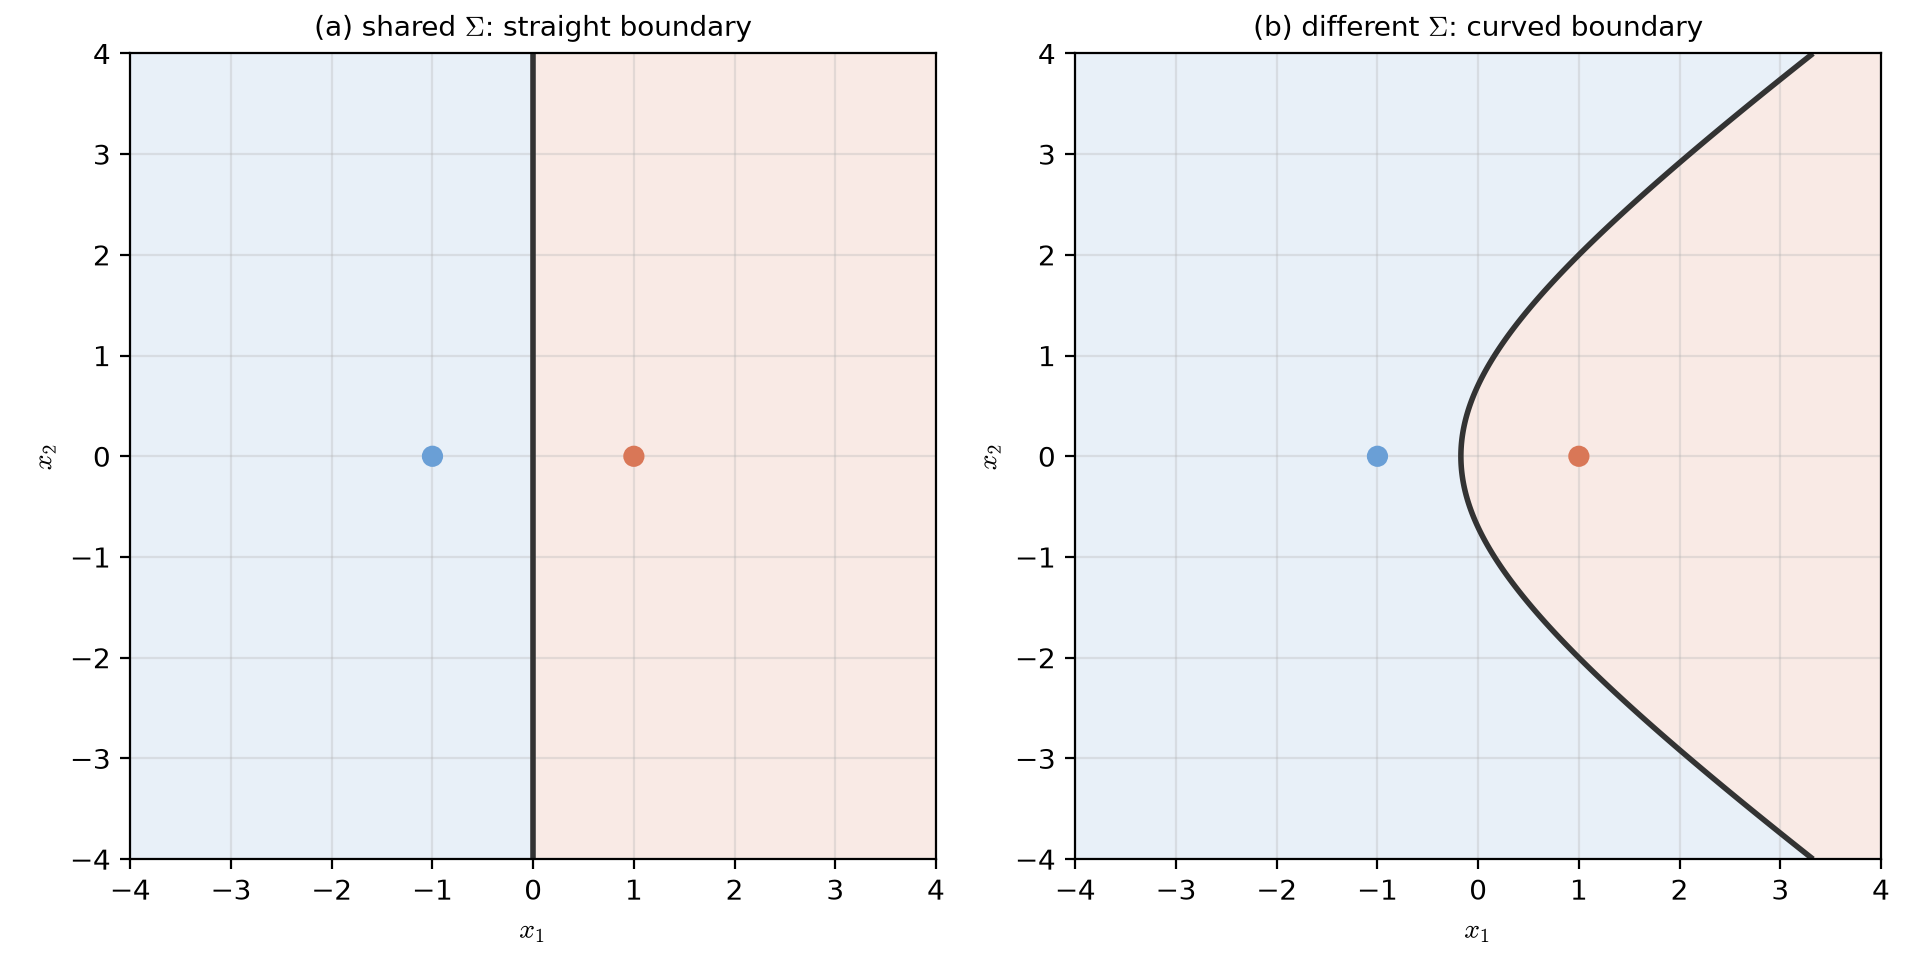
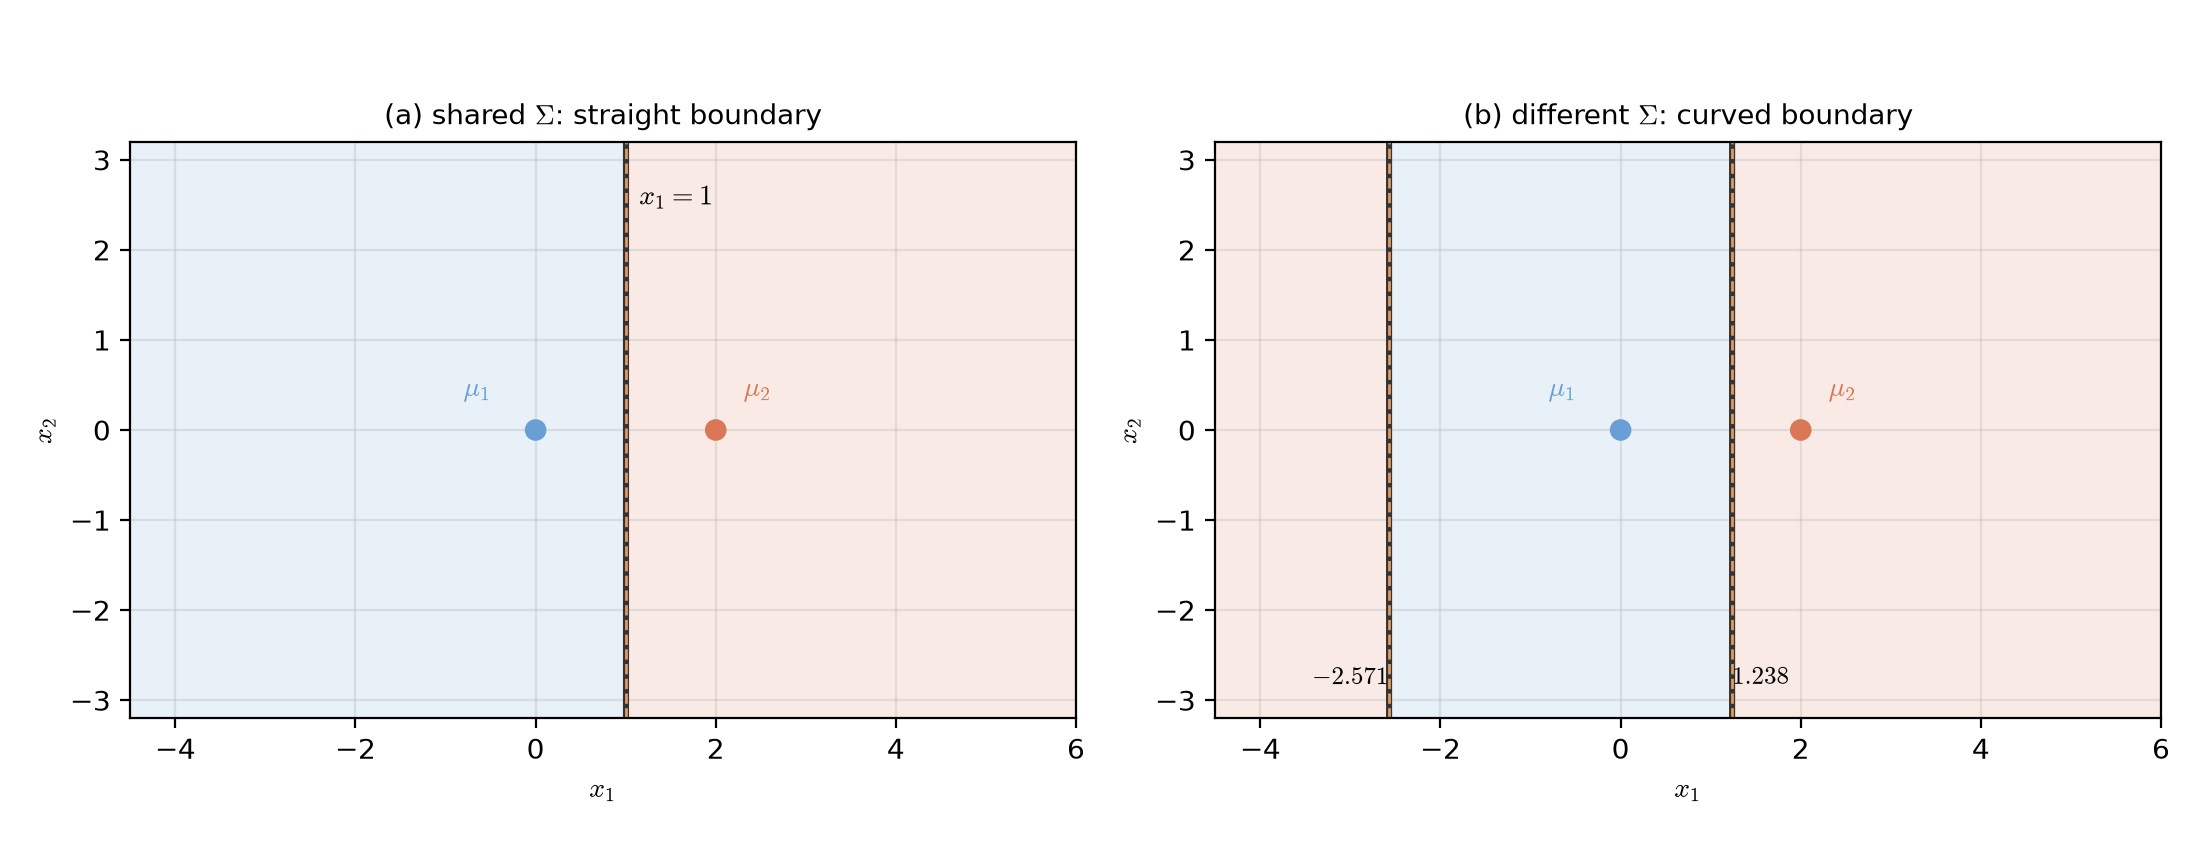
fix(lec02): shared-covariance 改用講義數字(§5.3 的均值與變異數),圖說同步

diff --git a/assets/figures/src/lec02-shared-covariance.py b/assets/figures/src/lec02-shared-covariance.py
@@ -1,16 +1,19 @@
-"""Figure code: lec02-shared-covariance. Preview: a shared covariance makes the boundary a line.
+"""Figure code: lec02-shared-covariance. Preview: a shared covariance makes the boundary a straight line.
 
-Illustrative two-class example (not from the textbook). Equal priors; means (-1, 0) and (+1, 0).
-Left: Sigma_1 = Sigma_2 = I, the boundary is the straight line x1 = 0.
-Right: different covariances, the boundary is a curve.
+The numbers are the ones already used in the lecture (Section 5.3): mu1 = 0 with sigma^2 = 1,
+and mu2 = 2 with sigma^2 = 4. Here they are extended to two features so that the "line or
+hyperplane" wording of Section 6 can be shown:
+  (a) shared covariance, Sigma_1 = Sigma_2 = I  -> the boundary is the straight line x1 = 1;
+  (b) different covariances, Sigma_1 = I and Sigma_2 = diag(4, 1) -> the boundary bends, and it
+      crosses the horizontal axis at x1 = -2.571 and x1 = 1.238, the same two points as in 1-D.
 """
 import numpy as np
 import matplotlib.pyplot as plt
 
 plt.rcParams["mathtext.fontset"] = "cm"
 c1, c2 = "#6a9fd6", "#d97757"
-mu1 = np.array([-1.0, 0.0])
-mu2 = np.array([1.0, 0.0])
+mu1 = np.array([0.0, 0.0])
+mu2 = np.array([2.0, 0.0])
 
 
 def g(x1, x2, mu, S):
@@ -20,26 +23,50 @@ def g(x1, x2, mu, S):
     return -0.5 * quad - 0.5 * np.log(np.linalg.det(S))
 
 
-X1, X2 = np.meshgrid(np.linspace(-4, 4, 500), np.linspace(-4, 4, 500))
-fig, (ax1, ax2) = plt.subplots(1, 2, figsize=(9.6, 4.8))
-cases = [
-    (ax1, np.eye(2), np.eye(2), "(a) shared $\\Sigma$: straight boundary"),
-    (ax2, np.eye(2), np.array([[2.0, 0.0], [0.0, 0.5]]), "(b) different $\\Sigma$: curved boundary"),
-]
-for ax, S1, S2, title in cases:
-    Z = g(X1, X2, mu1, S1) - g(X1, X2, mu2, S2)
-    ax.contourf(X1, X2, np.where(Z > 0, 1, 0), levels=[-0.5, 0.5, 1.5], colors=[c2, c1], alpha=0.15)
-    ax.contour(X1, X2, Z, levels=[0], colors="#333333", linewidths=2.0)
-    ax.scatter([mu1[0], mu2[0]], [mu1[1], mu2[1]], color=[c1, c2], s=44, zorder=3)
+X1, X2 = np.meshgrid(np.linspace(-4.5, 6.0, 700), np.linspace(-3.2, 3.2, 560))
+
+fig, (ax1, ax2) = plt.subplots(1, 2, figsize=(11.0, 4.3))
+
+# (a) shared covariance: boundary is a straight line
+S = np.eye(2)
+Z = g(X1, X2, mu1, S) - g(X1, X2, mu2, S)
+ax1.contourf(X1, X2, np.where(Z > 0, 1, 0), levels=[-0.5, 0.5, 1.5], colors=[c2, c1], alpha=0.15)
+ax1.contour(X1, X2, Z, levels=[0], colors="#333333", linewidths=2.2)
+ax1.plot([1, 1], [-3.2, 3.2], color="#e0995f", ls="--", lw=1.0)
+ax1.text(1.15, 2.5, r"$x_1=1$", fontsize=10)
+ax1.set_title("(a) shared $\\Sigma$: straight boundary", fontsize=10)
+
+# (b) different covariances: boundary bends
+S1, S2 = np.eye(2), np.diag([4.0, 1.0])
+Z2 = g(X1, X2, mu1, S1) - g(X1, X2, mu2, S2)
+ax2.contourf(X1, X2, np.where(Z2 > 0, 1, 0), levels=[-0.5, 0.5, 1.5], colors=[c2, c1], alpha=0.15)
+ax2.contour(X1, X2, Z2, levels=[0], colors="#333333", linewidths=2.2)
+for xc in (-2.571, 1.238):
+    ax2.plot([xc, xc], [-3.2, 3.2], color="#e0995f", ls="--", lw=1.0)
+ax2.text(-2.571, -2.75, r"$-2.571$", fontsize=9, ha="right", va="center")
+ax2.text(1.238, -2.75, r"$1.238$", fontsize=9, ha="left", va="center")
+ax2.set_title("(b) different $\\Sigma$: curved boundary", fontsize=10)
+
+for ax in (ax1, ax2):
+    ax.scatter([mu1[0], mu2[0]], [mu1[1], mu2[1]], color=[c1, c2], s=46, zorder=3)
+    ax.annotate(r"$\mu_1$", (mu1[0], mu1[1]), textcoords="offset points", xytext=(-26, 12),
+                fontsize=10, color=c1)
+    ax.annotate(r"$\mu_2$", (mu2[0], mu2[1]), textcoords="offset points",
+                xytext=(10, 12), fontsize=10, color=c2)
     ax.set_aspect("equal")
-    ax.set_xlim(-4, 4)
-    ax.set_ylim(-4, 4)
+    ax.set_xlim(-4.5, 6.0)
+    ax.set_ylim(-3.2, 3.2)
     ax.set_xlabel("$x_1$")
     ax.set_ylabel("$x_2$")
-    ax.set_title(title, fontsize=10)
     ax.grid(alpha=0.3)
 fig.tight_layout()
 fig.savefig("assets/figures/lec02-shared-covariance.png", dpi=200)
 print("saved assets/figures/lec02-shared-covariance.png")
-Z = g(np.array([0.0]), np.array([0.0]), mu1, np.eye(2)) - g(np.array([0.0]), np.array([0.0]), mu2, np.eye(2))
-print("left boundary check: g1-g2 at (0,0) =", np.round(Z, 6))
+
+# verify: axis intercepts of the curved boundary, and the straight boundary of panel (a)
+xs = np.linspace(-6, 8, 2_000_001)
+zs = g(xs, np.zeros_like(xs), mu1, S1) - g(xs, np.zeros_like(xs), mu2, S2)
+crossings = xs[1:][np.sign(zs[1:]) != np.sign(zs[:-1])]
+print("curved boundary x-intercepts", np.round(crossings, 3))
+za = g(np.array([1.0]), np.array([0.0]), mu1, S) - g(np.array([1.0]), np.array([0.0]), mu2, S)
+print("panel (a): g1-g2 at (1,0) =", np.round(za, 8), "(0 means the straight boundary passes through x1 = 1)")

diff --git a/COURSE_STATE.md b/COURSE_STATE.md
@@ -38,6 +38,7 @@
 (最新的在最上面。格式:`YYYY-MM-DD — 決定或異動內容`)
 
 - 2026-10-09 — 老師採用講義技能的示意圖判準,並指定圖的三個主要功能:(1) 一目了然,以視覺取代較長的文字闡述;(2) 補強文字語意描述的精準度;(3) 把抽象的空間幾何描述轉化為具象的精準圖解。圖內不用中文標籤(所有工具皆同),中文說明放在圖說與正文。修改 `.agents/skills/textbook-lecture-notes/SKILL.md`:§3 的「視覺需求」與「圖的功能」改為必填;§4.6 的圖欄改為必填;§5 改為 §5.0 判準(三層:依知識點類型、讀者測試、去除無關圖;密度下限:每個非純定義知識點至少一張圖)與工具對照;§5.4 圖說加入讀圖指引與功能標記;§7 新增第 10–12 項(圖覆蓋率、圖內無中文、圖的功能檢查);§8 摘要改為圖覆蓋率與功能分布。`view-from-text` 的 §4A 尚未依此判準調整,待老師決定。
+- 2026-10-09 — 老師選定 `lec02-gaussian-contours` 維持原值(Σ=I 對稱非對角 1.2 的示意矩陣),並要求 `lec02-shared-covariance` 改用講義數字(選項 C):μ1=(0,0)、μ2=(2,0),左圖兩類皆 Σ=I(邊界為直線 x1=1),右圖第二類 Σ=diag(4,1)(邊界彎曲,在水平軸交於 x1=-2.571 與 1.238,與 §5.3 相同)。圖說改為說明數字出自 §5.3,不再標示為示意。驗證:腳本輸出與獨立重算一致(左圖 g1-g2 在 x1=1 為 0;右圖二次方程根為 -2.571、1.238);壓線檢查 0 處;目視確認;圖說句子長度符合規範。
 - 2026-10-09 — 以 lec02 試點新的講義示意圖判準(§5.0)。知識點 10 個,依類型判定必圖 10 張;既有 3 張(bayes-numbers、error-regions、qda-regions,腳本未改)之外新增 7 張:threshold-tradeoff(門檻取捨)、risk-flip(條件風險)、monotone-transform(單調變換)、gaussian-1d(高斯 μ 與 σ)、gaussian-contours(Σ 的等機率線)、discriminant-difference(g=g1-g2 的兩個零點)、shared-covariance(共同共變異數預告)。每張圖的圖說加入讀圖指引與〔功能〕標記,既有 3 張的圖說也補上。驗證:7 張新腳本執行成功;以獨立腳本(僅標準函式庫)重算講義與圖說中的全部數字,17 項全數吻合;圖內文字無中文(腳本掃描 + 目視);以自製檢查器檢查文字方塊與線條重疊,7 張新圖 0 處(修正前有 6 處壓線);7 張全部目視確認;可讀性:圖說無超過 40 中文字或 25 英文單字的句子;網站建置成功。gaussian-contours 與 shared-covariance 為示意圖,數值為舉例,已在圖說標明。§7 小結與 §8 練習為純條列與純數字例,依 §5.0 不需要圖。尚未提交,等老師看圖。
 - 2026-10-09 — 老師決定保留已公開的 `slides/lec02.jbd.json`(commit `2a3108e` 等;deploy-site 於 15:23 部署成功,網站可下載)。注意:此檔在老師於 JianBauDau 中目視檢查之前已先提交並部署,違反 SKILL.md §7 的順序。尚待辦:(1) 老師在 JianBauDau 中逐頁檢查排版、截斷、Step 與 reticle 一對一、播放構圖;(2) 若檢查發現問題,修正後重新提交。u03 門檻變化圖仍未決定。`check_slides.py` 的修正已在 HEAD。
 - 2026-10-09 — lec02 投影片補齊必圖:u05 第 2 頁加判別差 g(x) 與決策邊界圖(R6,數字沿用 u07 的一維例子,零點 x≈-2.571、1.238);u06 第 1 頁加一維高斯曲線(R1),第 3 頁加等機率橢圓(R2,示意)。版面:收窄對應頁的文字欄重排,並修正 u06 第 2 頁既有的標籤與公式框重疊 3 px。`FIGURE_RECIPES.md` 新增 R6(已實際執行)。`slides/lec02.jbd.json` 已重新產生:合併後 check_slides 通過;結構檢查 0 問題;每頁至多一張圖。仍未提交 deck 與 check_slides.py 的修正,等老師在 JianBauDau 檢查。尚未處理:u03 門檻變化圖(待決定)。技能同步至 ndhuccc/course-template。

diff --git a/lectures/lec02.md b/lectures/lec02.md
@@ -353,11 +353,11 @@ The decision boundaries are at $x\approx-2.571$ and $x\approx 1.238$. So $\omega
 
 If all classes share the same covariance ($\Sigma_i=\Sigma$), the quadratic terms cancel when we subtract discriminant functions, and the boundary becomes a line or a hyperplane. This is the starting point of next week's linear classifiers, such as linear discriminant analysis (LDA).
 
-![兩類共用 Σ 時邊界是直線，Σ 不同時邊界是曲線（Shared Sigma gives a straight boundary; different covariances give a curved one）](../assets/figures/lec02-shared-covariance.png)
+![兩類均值在 x1=0 與 x1=2：共用 Σ 時邊界是直線 x1=1，Σ 不同時邊界是穿過 -2.571 與 1.238 的曲線（Shared covariance gives the straight line x1=1; different covariances give a curve through -2.571 and 1.238）](../assets/figures/lec02-shared-covariance.png)
 
-**圖說 `lec02-shared-covariance`**：示意圖，數值為舉例。兩類中心都在同一条水平線上（左邊的 $\omega_1$、右邊的 $\omega_2$，以藍、橘點標出）。左圖兩類的 $\Sigma$ 都是單位矩陣，決策邊界（粗黑線）是筆直的 $x_1=0$；右圖第二類的 $\Sigma$ 拉長，邊界就彎成曲線。兩張圖只有共變異數不同，邊界就從直線變成曲線，這就是「二次項沒有互相抵消」的意思。讀圖時先看兩張圖的中心點位置相同，再比較粗黑線的形狀。〔功能：3〕
+**圖說 `lec02-shared-covariance`**：數值沿用第 5.3 節：$\mu_1=0$、$\mu_2=2$，變異數分別是 1 與 4，這裡擴展成兩個特徵。左圖兩類的 $\Sigma$ 都是單位矩陣，決策邊界（粗黑線）是筆直的 $x_1=1$，正好是兩個均值的中點。右圖第二類的 $\Sigma$ 在 $x_1$ 方向拉長（變異數 4），邊界就彎成曲線。它在水平軸上的兩個交點是 $x_1=-2.571$ 與 $x_1=1.238$，與第 5.3 節的兩個邊界相同。讀圖時先確認兩張圖的均值位置相同，再比較粗黑線的形狀：直線變成穿過兩個標記點的曲線。〔功能：3〕
 
-**Caption `lec02-shared-covariance`**: an illustrative figure with chosen numbers. The two class means lie on the same horizontal line ($\omega_1$ on the left, $\omega_2$ on the right, marked in blue and orange). In the left panel both classes use the identity covariance, and the decision boundary (the thick black curve) is the straight line $x_1=0$. In the right panel the second class uses an elongated covariance, and the boundary bends into a curve. Only the covariances differ, yet the boundary changes from a line to a curve. That is what it means for the quadratic terms not to cancel. Read the figure by first checking that the two means are in the same places, then by comparing the shape of the black boundary.
+**Caption `lec02-shared-covariance`**: the numbers come from Section 5.3: $\mu_1=0$ and $\mu_2=2$, with variances 1 and 4, extended here to two features. In the left panel both classes use the identity covariance. The decision boundary (the thick black curve) is then the straight line $x_1=1$, the midpoint of the two means. In the right panel the second class is elongated along $x_1$ (variance 4), so the boundary bends into a curve. It crosses the horizontal axis at $x_1=-2.571$ and $x_1=1.238$, the same two points as in Section 5.3. Read the figure by first checking that the means sit in the same places in both panels. Then compare the shape of the black boundary.
 
 ## 7. 小結（Summary）
 
